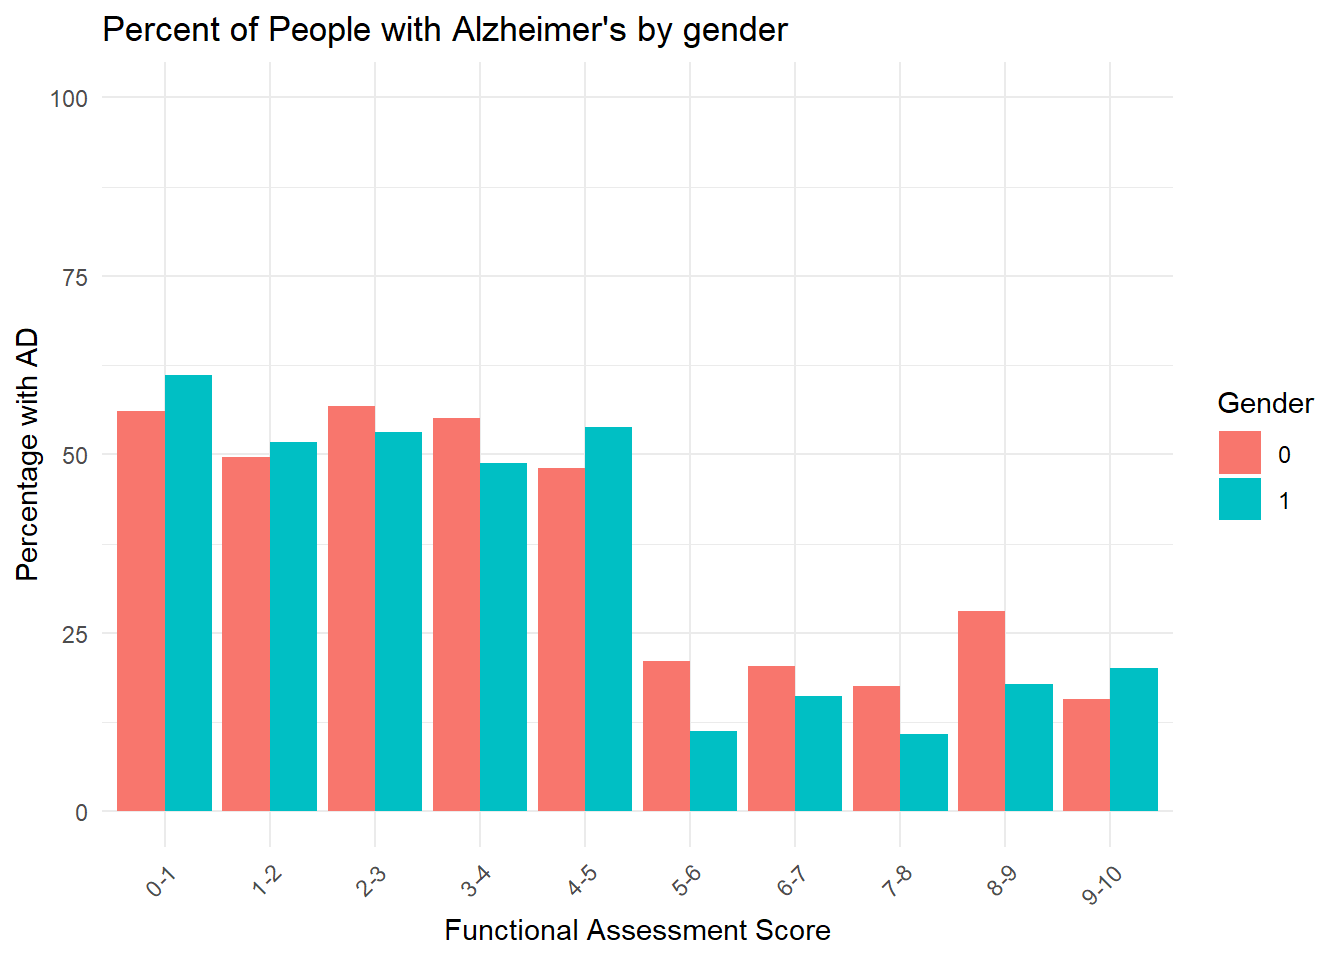
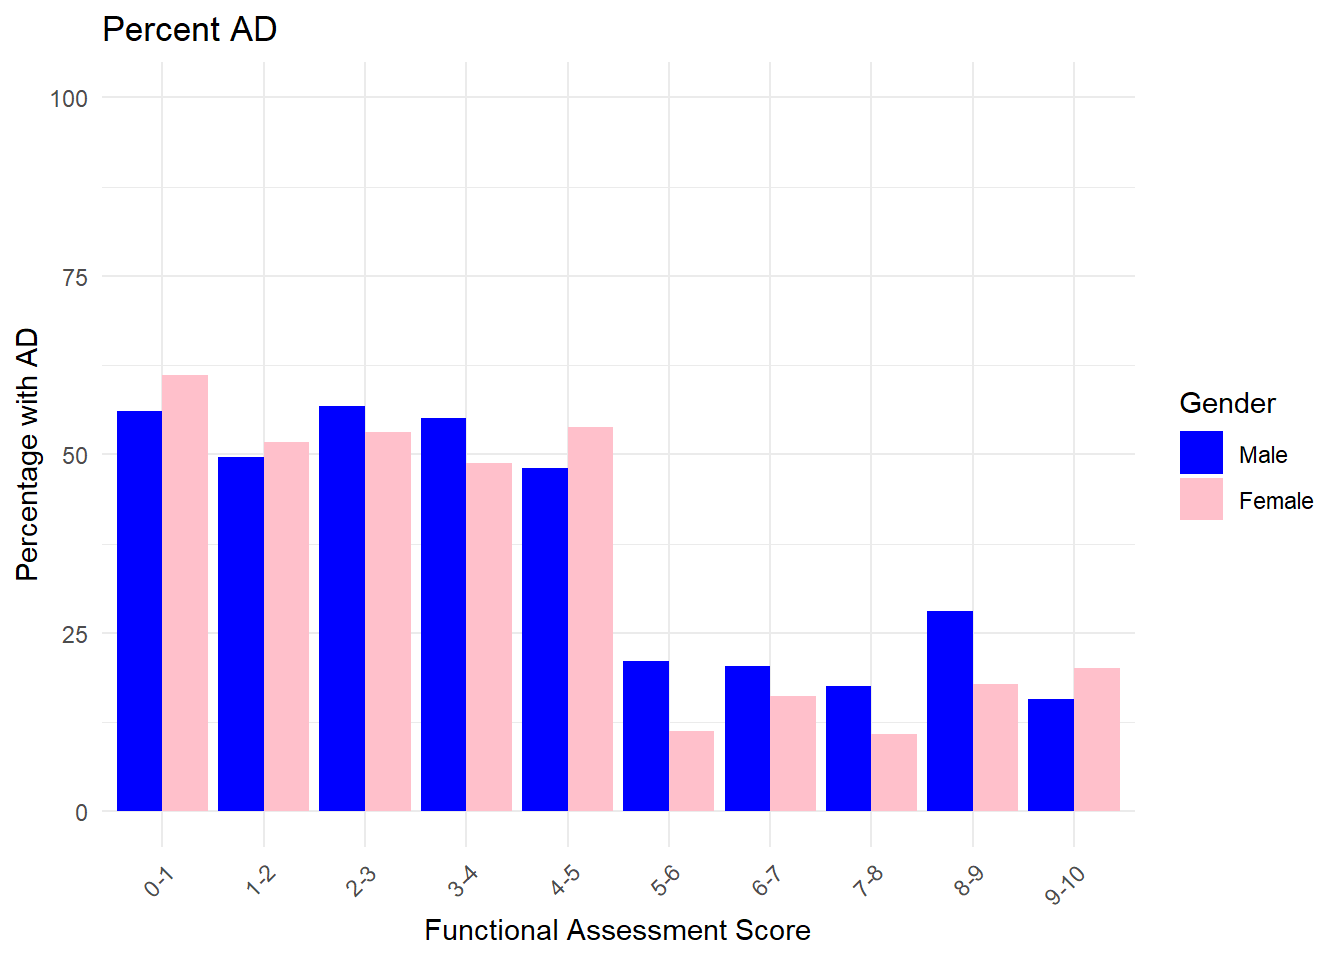
comm

diff --git a/docs/index.html b/docs/index.html
@@ -100,6 +100,10 @@ ul.task-list li input[type="checkbox"] {
     <a class="nav-link" href="./p3.html"> 
 <span class="menu-text">Age</span></a>
   </li>  
+  <li class="nav-item">
+    <a class="nav-link" href="./conclusion.html"> 
+<span class="menu-text">Conclusion</span></a>
+  </li>  
 </ul>
           </div> <!-- /navcollapse -->
           <div class="quarto-navbar-tools">
@@ -136,7 +140,7 @@ ul.task-list li input[type="checkbox"] {
 </header>
 
 
-<p>Alzheimer’s disease affects more than 6 million Americans, and is ranked the 7th leading cause of death in the United States. The following data was sourced from a Kaggle dataset that focused on the broad topic of Alzheimer’s disease. Then, the variables used to achieve my conclusion were selected and stratified by whether or not the patient was diagnosed with Alzheimer’s. Those who have Alzheimer’s exhibit significantly decreased physical and mental function than those who do not.</p>
+<p>Alzheimer’s disease is ranked the 7th leading cause of death in the United States and affects more than 6 million Americans. The following data was sourced from a Kaggle dataset that focused on the broad topic of Alzheimer’s disease. The variables used in these analyses were chosen to examine the association between Alzheimer’s and physical functioning. The plots on the succeeding pages explore the validity of the “base plot” by acknowledging the potential confounding variables of age and gender. Overall there appears to be a strong association between and Alzheimer’s and physical function. People with lower physical function had higher percentages of Alzheimer’s disease.</p>
 <div class="cell">
 <div class="cell-output-display">
 <div>

diff --git a/docs/p3.html b/docs/p3.html
@@ -100,6 +100,10 @@ ul.task-list li input[type="checkbox"] {
     <a class="nav-link active" href="./p3.html" aria-current="page"> 
 <span class="menu-text">Age</span></a>
   </li>  
+  <li class="nav-item">
+    <a class="nav-link" href="./conclusion.html"> 
+<span class="menu-text">Conclusion</span></a>
+  </li>  
 </ul>
           </div> <!-- /navcollapse -->
           <div class="quarto-navbar-tools">
@@ -136,7 +140,7 @@ ul.task-list li input[type="checkbox"] {
 </header>
 
 
-<p>The ages of the patients in this study ranged from 60 to 90, and the following graph reveals the consistency of the findings of the main graph across all ages present in this study.</p>
+<p>The ages of the patients in this study ranged from 60 to 90. The continuous age variable was dichotomized, &lt;75 vs.&nbsp;&gt;= 75.The amount of people younger than 75 and those above 75 was approximately equal. The following graph shows the percentage of those with Alzheimer’s is similar across age for lower functioning patients and for higher functioning patients.</p>
 <div class="cell">
 <div class="cell-output-display">
 <div>

diff --git a/docs/p2.html b/docs/p2.html
@@ -100,6 +100,10 @@ ul.task-list li input[type="checkbox"] {
     <a class="nav-link" href="./p3.html"> 
 <span class="menu-text">Age</span></a>
   </li>  
+  <li class="nav-item">
+    <a class="nav-link" href="./conclusion.html"> 
+<span class="menu-text">Conclusion</span></a>
+  </li>  
 </ul>
           </div> <!-- /navcollapse -->
           <div class="quarto-navbar-tools">
@@ -136,6 +140,7 @@ ul.task-list li input[type="checkbox"] {
 </header>
 
 
+<p>The following graph shows that the percentage of patients with Alzheimer’s Disease for males and females across all functional assessment scores is similar to the base plot that doesn’t include gender.</p>
 <div class="cell">
 <div class="cell-output-display">
 <div>

diff --git a/docs/about.html b/docs/about.html
@@ -100,6 +100,10 @@ ul.task-list li input[type="checkbox"] {
     <a class="nav-link" href="./p3.html"> 
 <span class="menu-text">Age</span></a>
   </li>  
+  <li class="nav-item">
+    <a class="nav-link" href="./conclusion.html"> 
+<span class="menu-text">Conclusion</span></a>
+  </li>  
 </ul>
           </div> <!-- /navcollapse -->
           <div class="quarto-navbar-tools">
